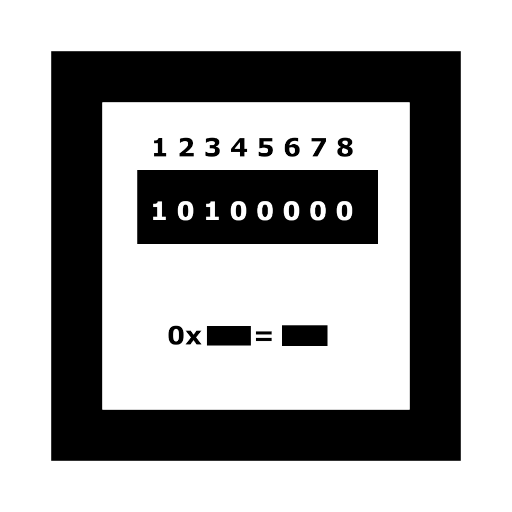
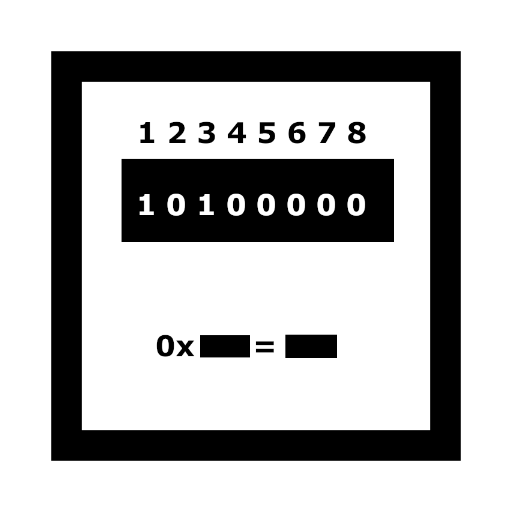
Change to Transparent Marker

Changed region(s): [[0.1562, 0.1562, 0.8438, 0.8438], [0.2812, 0.625, 0.6562, 0.7188]]

diff --git a/index.html b/index.html
@@ -10,7 +10,7 @@
 	</head>
     <body style="margin : 0px; overflow: hidden;">
         <a-scene embedded arjs>
-		<a-marker type="pattern" url="/Markers/MarkerFile/pattern-TitleMarkerIMG.patt">
+		<a-marker type="pattern" url="/Markers/MarkerFile/pattern-TransparentIMG.patt">
               <a-box color="tomato" depth="1" height=".1" width="1"></a-box>
         </a-marker>
         <a-entity camera></a-entity>
